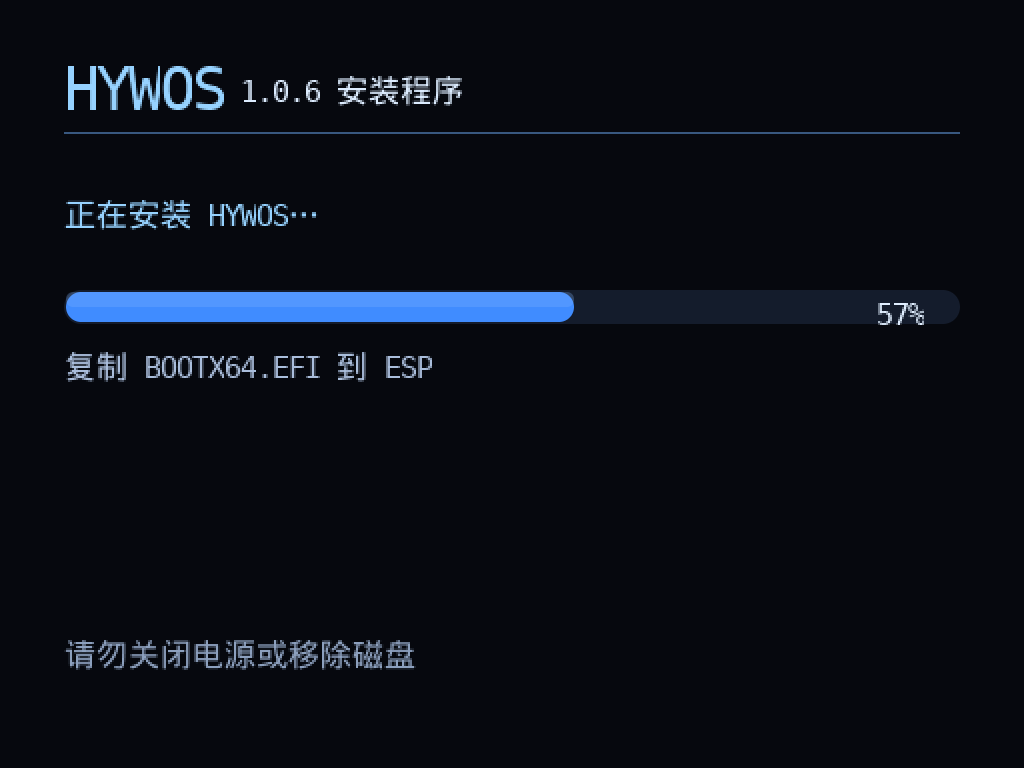
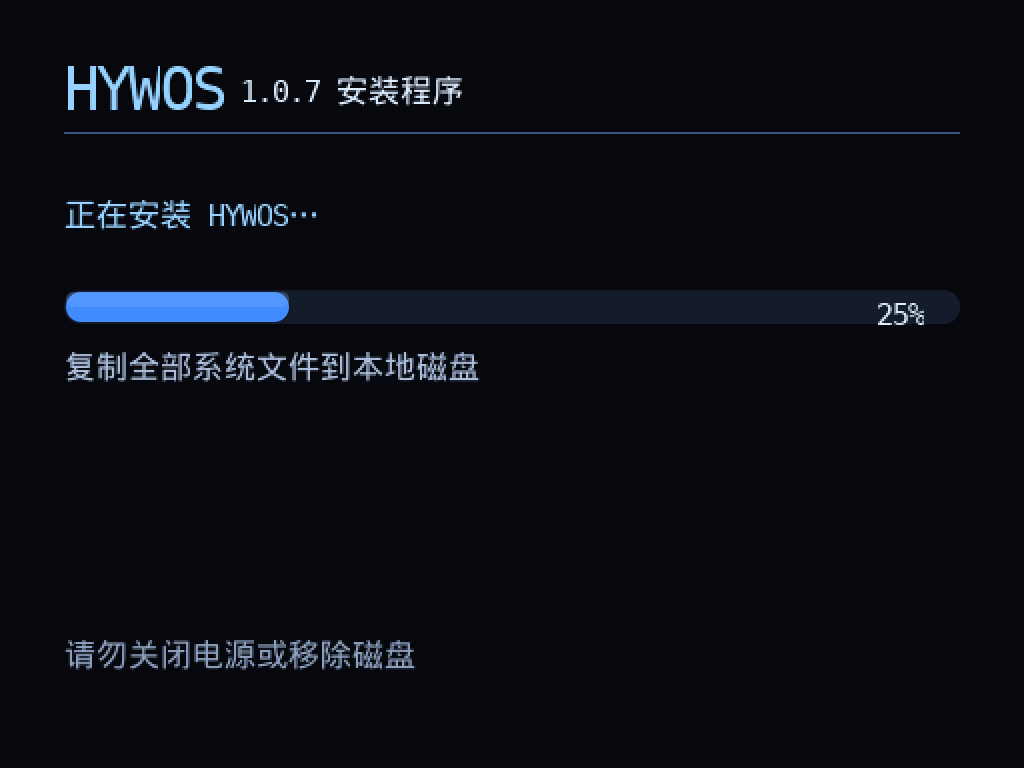
HYWOS 1.0.7: fix install detection and FAT writes, add online updates

Changed region(s): [[0.125, 0.375, 0.5625, 0.5], [0.8438, 0.375, 0.9062, 0.4375], [0.2812, 0.0938, 0.3125, 0.125]]

diff --git a/src/updater.rs b/src/updater.rs
@@ -131,8 +131,12 @@ fn find_asset(data: &[u8], start: usize, end: usize) -> Option<(usize, usize)> {
                     let slice = &data[s0..p];
                     let mut has = false;
                     let mut q = 0;
-                    while q + 7 <= slice.len() {
-                        if &slice[q..q + 7] == b".updpkg" { has = true; break; }
+                    while q + 4 <= slice.len() {
+                        let tail = &slice[q..];
+                        if tail.starts_with(b".updpkg") || tail.starts_with(b".upd") || tail.starts_with(b".UPD") {
+                            has = true;
+                            break;
+                        }
                         q += 1;
                     }
                     if has { return Some((s0, p - s0)); }
@@ -228,13 +232,9 @@ pub unsafe fn check_update() -> Check {
     let mut seen_code = 0u32;
     let mut seen = Release::empty();
     let mut any = false;
-    let mut cache = Str80::empty();
-    cache.push_str(UPDATE_DIR);
-    cache.push(b'\\');
-    cache.push_str("latest.json");
-    if let Some(n) = fs::read_file(fs::usr_vol(), cache.as_str()) {
-        let buf = fs::rdbuf();
-        let mut rel = Release::empty();
+    let mut rel = Release::empty();
+    let buf = &mut *core::ptr::addr_of_mut!(NETBUF);
+    if let Ok(n) = crate::http::get(RELEASES_API, buf) {
         if let Some(code) = evaluate(&buf[..n], &mut rel) {
             if code > local {
                 return Check::Available(rel);
@@ -246,9 +246,13 @@ pub unsafe fn check_update() -> Check {
             }
         }
     }
-    let mut rel = Release::empty();
-    let buf = &mut *core::ptr::addr_of_mut!(NETBUF);
-    if let Ok(n) = crate::http::get(RELEASES_API, buf) {
+    let mut cache = Str80::empty();
+    cache.push_str(UPDATE_DIR);
+    cache.push(b'\\');
+    cache.push_str("latest.json");
+    if let Some(n) = fs::read_file(fs::usr_vol(), cache.as_str()) {
+        let buf = fs::rdbuf();
+        let mut rel = Release::empty();
         if let Some(code) = evaluate(&buf[..n], &mut rel) {
             if code > local {
                 return Check::Available(rel);
@@ -277,6 +281,30 @@ pub unsafe fn check_update() -> Check {
     Check::Error(1)
 }
 
+unsafe fn local_pkg_for(version: u32) -> Option<Str80> {
+    let mut dir = Str80::empty();
+    dir.push_str(UPDATE_DIR);
+    let mut ents: [fs::DirEntry; 32] = core::mem::zeroed();
+    let n = fs::list_dir(fs::usr_vol(), dir.as_str(), &mut ents);
+    let mut i = 0;
+    while i < n {
+        let name = ents[i].name.as_str();
+        let is_pkg = name.ends_with(".updpkg") || name.ends_with(".upd") || name.ends_with(".UPD");
+        if is_pkg {
+            let full = fs::path_join(dir.as_str(), name);
+            if let Some(len) = fs::read_file(fs::usr_vol(), full.as_str()) {
+                let buf = fs::rdbuf();
+                let info = fs::parse_updpkg(&buf[..len]);
+                if info.valid && info.version == version {
+                    return Some(full);
+                }
+            }
+        }
+        i += 1;
+    }
+    None
+}
+
 pub unsafe fn download_and_apply(rel: &Release) -> u8 {
     if rel.url_len == 0 {
         return 10;
@@ -286,10 +314,14 @@ pub unsafe fn download_and_apply(rel: &Release) -> u8 {
     fs::ensure_dir(fs::usr_vol(), dir.as_str());
     let url = core::str::from_utf8_unchecked(&rel.url[..rel.url_len]);
     if url.starts_with('\\') {
-        return match fs::apply_update_file(fs::usr_vol(), url) {
-            4 => 11,
-            code => code,
-        };
+        let code = fs::apply_update_file(fs::usr_vol(), url);
+        if code != 4 && code != 1 {
+            return code;
+        }
+        if let Some(p) = local_pkg_for(rel.version_code()) {
+            return fs::apply_update_file(fs::usr_vol(), p.as_str());
+        }
+        return 11;
     }
     let mut name = Str80::empty();
     name.push_str(dir.as_str());

diff --git a/src/fs.rs b/src/fs.rs
@@ -173,18 +173,17 @@ pub unsafe fn fs_init() -> usize {
             j += 1;
         }
         let mut usr = sys;
-        if !any {
+        let mut k = 0;
+        while k < count {
+            if k != sys && !exists_vol(k, "\\EFI") {
+                usr = k;
+                break;
+            }
+            k += 1;
+        }
+        if !any && count <= 1 {
             USE_RAM = true;
             serial_print("[fs] no writable volume, RAM fallback");
-        } else {
-            let mut k = 0;
-            while k < count {
-                if k != sys && !exists_vol(k, "\\EFI") && vol_writable(k) {
-                    usr = k;
-                    break;
-                }
-                k += 1;
-            }
         }
         USR_VOL = usr;
         serial_print("[fs] sys index");
@@ -355,7 +354,7 @@ unsafe fn mkdirs(vol: usize, path: &str) {
         if c == b'\\' {
             if clen > 0 {
                 let name = core::str::from_utf8_unchecked(&cur[..clen]);
-                let f = open_on(VOLS[vol], name, MODE_CREATE | MODE_WRITE, ATTR_DIR);
+                let f = open_on(VOLS[vol], name, MODE_READ | MODE_WRITE | MODE_CREATE, ATTR_DIR);
                 if !f.is_null() { close(f); }
             }
         } else if clen < 158 {
@@ -366,7 +365,7 @@ unsafe fn mkdirs(vol: usize, path: &str) {
     }
     if clen > 0 {
         let name = core::str::from_utf8_unchecked(&cur[..clen]);
-        let f = open_on(VOLS[vol], name, MODE_CREATE | MODE_WRITE, ATTR_DIR);
+        let f = open_on(VOLS[vol], name, MODE_READ | MODE_WRITE | MODE_CREATE, ATTR_DIR);
         if !f.is_null() { close(f); }
     }
 }
@@ -403,7 +402,7 @@ pub unsafe fn write_file(vol: usize, path: &str, data: &[u8]) -> bool {
     if USE_RAM { return ram_write(path, data); }
     let parent = parent_of(path);
     if !parent.is_empty() { mkdirs(vol, parent.as_str()); }
-    let f = open_on(VOLS[vol], path, MODE_WRITE | MODE_CREATE, 0);
+    let f = open_on(VOLS[vol], path, MODE_READ | MODE_WRITE | MODE_CREATE, 0);
     if f.is_null() { return false; }
     let w: extern "efiapi" fn(*mut FileProtocol, *mut usize, *mut u8) -> Status =
         core::mem::transmute((*f).write);
@@ -446,7 +445,7 @@ pub unsafe fn append_file(vol: usize, path: &str, data: &[u8]) -> bool {
     if let Some(n) = read_file(vol, path) {
         existing_len = n;
     }
-    let f = open_on(VOLS[vol], path, MODE_WRITE | MODE_CREATE, 0);
+    let f = open_on(VOLS[vol], path, MODE_READ | MODE_WRITE | MODE_CREATE, 0);
     if f.is_null() { return false; }
     let sp: extern "efiapi" fn(*mut FileProtocol, u64) -> Status = core::mem::transmute((*f).set_position);
     sp(f, existing_len as u64);
@@ -471,7 +470,7 @@ pub unsafe fn append_file(vol: usize, path: &str, data: &[u8]) -> bool {
 
 pub unsafe fn delete_file(vol: usize, path: &str) -> bool {
     if USE_RAM { return ram_delete(path); }
-    let f = open_on(VOLS[vol], path, MODE_WRITE, 0);
+    let f = open_on(VOLS[vol], path, MODE_READ | MODE_WRITE, 0);
     if f.is_null() { return false; }
     let d: extern "efiapi" fn(*mut FileProtocol) -> Status = core::mem::transmute((*f).delete);
     let st = d(f);

diff --git a/src/apps/mod.rs b/src/apps/mod.rs
@@ -700,9 +700,9 @@ unsafe fn draw_settings(s: &mut Settings, g: &Gfx, x: i32, y: i32, w: i32, h: i3
             g.text(cx, cy, "软件更新", rgb(36, 42, 58), 2);
             g.text(cx, cy + 34, "当前版本 1.0.7 · GitHub Releases 在线检测", rgb(132, 140, 158), 1);
             let by = cy + 58;
-            btn(g, cx, by, 140, 34, "检查更新", true);
+            btn(g, cx, by, 140, 34, "检查更新 (C)", true);
             let can_dl = s.update_state == 2;
-            btn(g, cx + 152, by, 160, 34, if can_dl { "下载并安装" } else { "等待检查" }, can_dl);
+            btn(g, cx + 152, by, 160, 34, if can_dl { "下载并安装 (D)" } else { "等待检查" }, can_dl);
             let status = match s.update_state {
                 1 => "已是最新版本",
                 2 => "发现新版本，可下载并安装",
@@ -1067,8 +1067,28 @@ pub unsafe fn key(st: &mut AppState, id: AppId, scan: u16, ch: u16) -> AppAction
     if id == AppId::Terminal {
         return st.term.key(scan, ch);
     }
-    if id == AppId::Settings && st.settings.page == 2 && scan == 0x16 {
-        return AppAction::OpenUpdate;
+    if id == AppId::Settings {
+        if scan == 0x04 && st.settings.page > 0 {
+            st.settings.page -= 1;
+            return AppAction::None;
+        }
+        if scan == 0x03 && st.settings.page < 3 {
+            st.settings.page += 1;
+            return AppAction::None;
+        }
+        if st.settings.page == 2 {
+            if ch == b'c' as u16 || ch == b'C' as u16 {
+                do_check_update(&mut st.settings);
+                return AppAction::None;
+            }
+            if ch == b'd' as u16 || ch == b'D' as u16 {
+                do_download_update(&mut st.settings);
+                return AppAction::None;
+            }
+            if scan == 0x16 {
+                return AppAction::OpenUpdate;
+            }
+        }
     }
     if id == AppId::Weather && ch == b'u' as u16 {
         st.weather.unit_f = !st.weather.unit_f;

diff --git a/src/installer.rs b/src/installer.rs
@@ -88,6 +88,7 @@ unsafe fn screen_confirm(g: &Gfx, cap_mb: u64, part_mb: u64) {
     g.rect(64, 468, 300, 48, rgb(20, 60, 120), 220);
     line(g, 476, "  [ Enter ] 安装    [ N ] 取消  ", rgb(200, 230, 255));
     line(g, 548, "ISO 不会直接进入桌面：确认后才复制系统并创建引导。", rgb(140, 160, 190));
+    line(g, 640, "FAT16 引导分区上限 128 MB，系统文件不足 2 MB。", rgb(140, 160, 190));
     line(g, 680, "HYWOS Installer · 命令行安装模式", rgb(110, 130, 160));
 }
 
@@ -157,7 +158,13 @@ unsafe fn draw_progress(p: u32) {
     g.text(64, 640, "请勿关闭电源或移除磁盘", rgb(140, 160, 190), 2);
 }
 
+static mut PROG_LAST: u32 = 0xFFFF_FFFF;
+
 unsafe fn prog_cb(p: u32) {
+    if p == PROG_LAST {
+        return;
+    }
+    PROG_LAST = p;
     draw_progress(p);
     if p < 100 {
         bs_stall(120_000);
@@ -260,7 +267,7 @@ pub unsafe fn run(g: &Gfx) -> ! {
                 chosen = true;
                 break;
             }
-            if ch == b'n' as u16 || ch == b'N' as u16 || ch == 0x1b {
+            if ch == b'n' as u16 || ch == b'N' as u16 || _scan == 0x17 {
                 break;
             }
         }

diff --git a/src/version.rs b/src/version.rs
@@ -2,7 +2,7 @@ pub const VERSION: &str = "1.0.7";
 pub const VERSION_MAJOR: u32 = 1;
 pub const VERSION_MINOR: u32 = 0;
 pub const VERSION_PATCH: u32 = 7;
-pub const BUILD_NAME: &str = "星河 · 在线更新版";
+pub const BUILD_NAME: &str = "星河 · 安装与在线更新版";
 pub const REPO: &str = "lmxdg/HYWOS";
 pub const RELEASES_API: &str = "https://api.github.com/repos/lmxdg/HYWOS/releases?per_page=3";
 pub const UPDATE_DIR: &str = "\\updates";

diff --git a/RELEASE_1.0.7.md b/RELEASE_1.0.7.md
@@ -7,6 +7,9 @@
 - 安装成功后写入 `\HYWOS\INSTALL.TXT`。从本地硬盘启动时优先识别该标记，
   即使 ISO 仍连接、固件仍缓存 2048 字节块设备，也不会再次进入安装页面。
 - 移除「任何存在 2048 字节块设备就判定为安装介质」的误判逻辑。
+- **修复 UEFI 文件写入**：FatPkg 只接受 `READ`、`READ|WRITE`、
+  `READ|WRITE|CREATE` 三种打开模式，旧代码使用 `WRITE` 导致卷被误判为只读；
+  现在安装盘与用户卷均可正常创建、删除和替换文件。
 
 ## 安装流程重写
 
@@ -29,7 +32,9 @@
   - 解析 `tag_name`，与本地版本 1.0.7 比较；
   - 新版本可用时显示版本号与下载源，点击「下载并安装」拉取 `.updpkg`；
   - 固件不提供 HTTP/TLS 或网络未配置时，读取 `\updates\latest.json`，
-    并扫描 `\updates` 目录中的 `.updpkg` 作为离线回退；
+    并扫描 `\updates` 目录中的 `.updpkg`（含 8.3 短名）作为离线回退；
+  - 无指针设备时，设置窗口可用 `←` / `→` 切换页面，软件更新页按 `C` 检查、
+    `D` 下载并安装；
   - 下载完成后写入用户卷 `\updates\hywos-<版本>.updpkg` 并应用更新，
     CRC32 校验失败会拒绝更新。
 - 更新包携带完整内核，应用时替换 `\EFI\BOOT\BOOTX64.EFI` 并写入 `\HYWOS\VERSION`；
